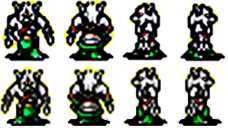
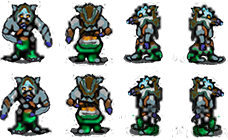
bugs fixed: double animation render; arrow powerup direction change bug

diff --git a/Adventure/src/computc/entities/Loafer.java b/Adventure/src/computc/entities/Loafer.java
@@ -25,16 +25,16 @@ public class Loafer extends Enemy
 	
 	private int pursuitCooldown;
 	private Image spriteSheet = Game.assets.getImage("res/WolfLoafer.png");
-	private Image walkDown = spriteSheet.getSubImage(1, 1, 57, 128);
-	private Image walkUp = spriteSheet.getSubImage(57, 1, 57, 128);
-	private Image walkLeft = spriteSheet.getSubImage(116, 1, 57, 128);
-	private Image walkRight = spriteSheet.getSubImage(171, 1, 57, 128);
+	private Image walkDown = spriteSheet.getSubImage(1, 1, 57, 140);
+	private Image walkUp = spriteSheet.getSubImage(57, 1, 57, 140);
+	private Image walkLeft = spriteSheet.getSubImage(116, 1, 57, 140);
+	private Image walkRight = spriteSheet.getSubImage(171, 1, 57, 140);
 	
 	private Image spriteSheetAngry = Game.assets.getImage("res/WolfLoaferAngry.png");
-	private Image walkDownAngry = spriteSheetAngry.getSubImage(1, 1, 57, 128);
-	private Image walkUpAngry = spriteSheetAngry.getSubImage(57, 1, 57, 128);
-	private Image walkLeftAngry = spriteSheetAngry.getSubImage(116, 1, 57, 128);
-	private Image walkRightAngry = spriteSheetAngry.getSubImage(171, 1, 57, 128);
+	private Image walkDownAngry = spriteSheetAngry.getSubImage(1, 1, 57, 140);
+	private Image walkUpAngry = spriteSheetAngry.getSubImage(57, 1, 57, 140);
+	private Image walkLeftAngry = spriteSheetAngry.getSubImage(116, 1, 57, 140);
+	private Image walkRightAngry = spriteSheetAngry.getSubImage(171, 1, 57, 140);
 	
 	Animation sprite, walkingDown, walkingUp, walkingLeft, walkingRight, angryDown, angryUp, angryLeft, angryRight;
 	
@@ -47,15 +47,15 @@ public class Loafer extends Enemy
 		this.image = Game.assets.getImage("res/WolfLoafer.png").getSubImage(1, 1, 55, 61);
 		
 		
-		walkingDown = new Animation(new SpriteSheet(walkDown, 57, 64), 200);
-		walkingUp = new Animation(new SpriteSheet(walkUp, 57, 64), 200);
-		walkingLeft = new Animation(new SpriteSheet(walkLeft, 57, 64), 200);
-		walkingRight = new Animation(new SpriteSheet(walkRight, 57, 64), 200);
+		walkingDown = new Animation(new SpriteSheet(walkDown, 57, 70), 200);
+		walkingUp = new Animation(new SpriteSheet(walkUp, 57, 70), 200);
+		walkingLeft = new Animation(new SpriteSheet(walkLeft, 57, 70), 200);
+		walkingRight = new Animation(new SpriteSheet(walkRight, 57, 70), 200);
 		
-		angryDown = new Animation(new SpriteSheet(walkDownAngry, 57, 64), 175);
-		angryUp = new Animation(new SpriteSheet(walkUpAngry, 57, 64), 175);
-		angryLeft = new Animation(new SpriteSheet(walkLeftAngry, 57, 64), 175);
-		angryRight = new Animation(new SpriteSheet(walkRightAngry, 57, 64), 175);
+		angryDown = new Animation(new SpriteSheet(walkDownAngry, 57, 70), 175);
+		angryUp = new Animation(new SpriteSheet(walkUpAngry, 57, 70), 175);
+		angryLeft = new Animation(new SpriteSheet(walkLeftAngry, 57, 70), 175);
+		angryRight = new Animation(new SpriteSheet(walkRightAngry, 57, 70), 175);
 		
 		this.damage = 1;
 		this.acceleration = 0.03f;

diff --git a/Adventure/src/computc/states/TutorialState.java b/Adventure/src/computc/states/TutorialState.java
@@ -201,6 +201,11 @@ public class TutorialState extends BasicGameState
 				this.gamedata.hero.tempArrow.setPowerCharge();
 				this.gamedata.hero.tempArrow.setTempArrow();
 				this.gamedata.hero.tempArrow.render(graphics, camera);
+				
+				if(this.gamedata.hero.tempArrow.getDirection() != this.gamedata.hero.getDirection())
+				{
+					this.gamedata.hero.resetArrowPowerUp();
+				}
 			}
 		}
 		this.menu.render(graphics, camera);

diff --git a/Adventure/src/computc/states/MainGameState.java b/Adventure/src/computc/states/MainGameState.java
@@ -183,6 +183,11 @@ public class MainGameState extends BasicGameState
 				this.gamedata.hero.tempArrow.setPowerCharge();
 				this.gamedata.hero.tempArrow.setTempArrow();
 				this.gamedata.hero.tempArrow.render(graphics, camera);
+				
+				if(this.gamedata.hero.tempArrow.getDirection() != this.gamedata.hero.getDirection())
+				{
+					this.gamedata.hero.resetArrowPowerUp();
+				}
 			}
 		}
 

diff --git a/Adventure/src/computc/entities/Hero.java b/Adventure/src/computc/entities/Hero.java
@@ -426,6 +426,9 @@ public class Hero extends Entity
 		// Check if the melee attack has stopped
 		if(swinging) 
 		{
+			firing = false;
+			this.arrowPowerUp = 0;
+			
 			meleeSwing.setLooping(false);
 			if(meleeSwing.isStopped())
 			{
